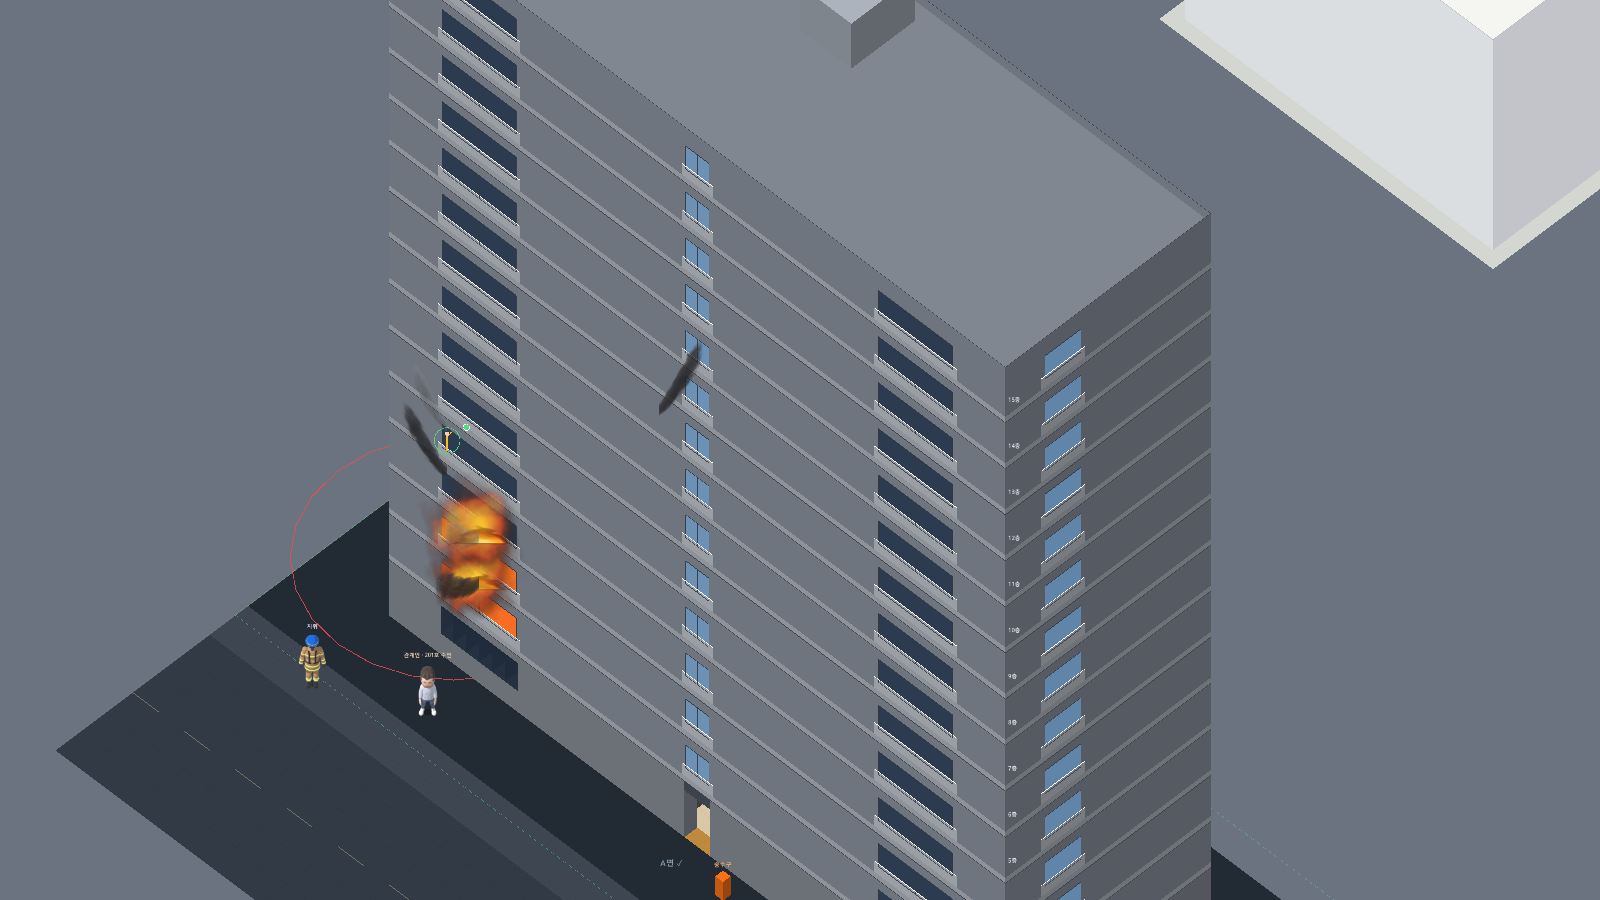
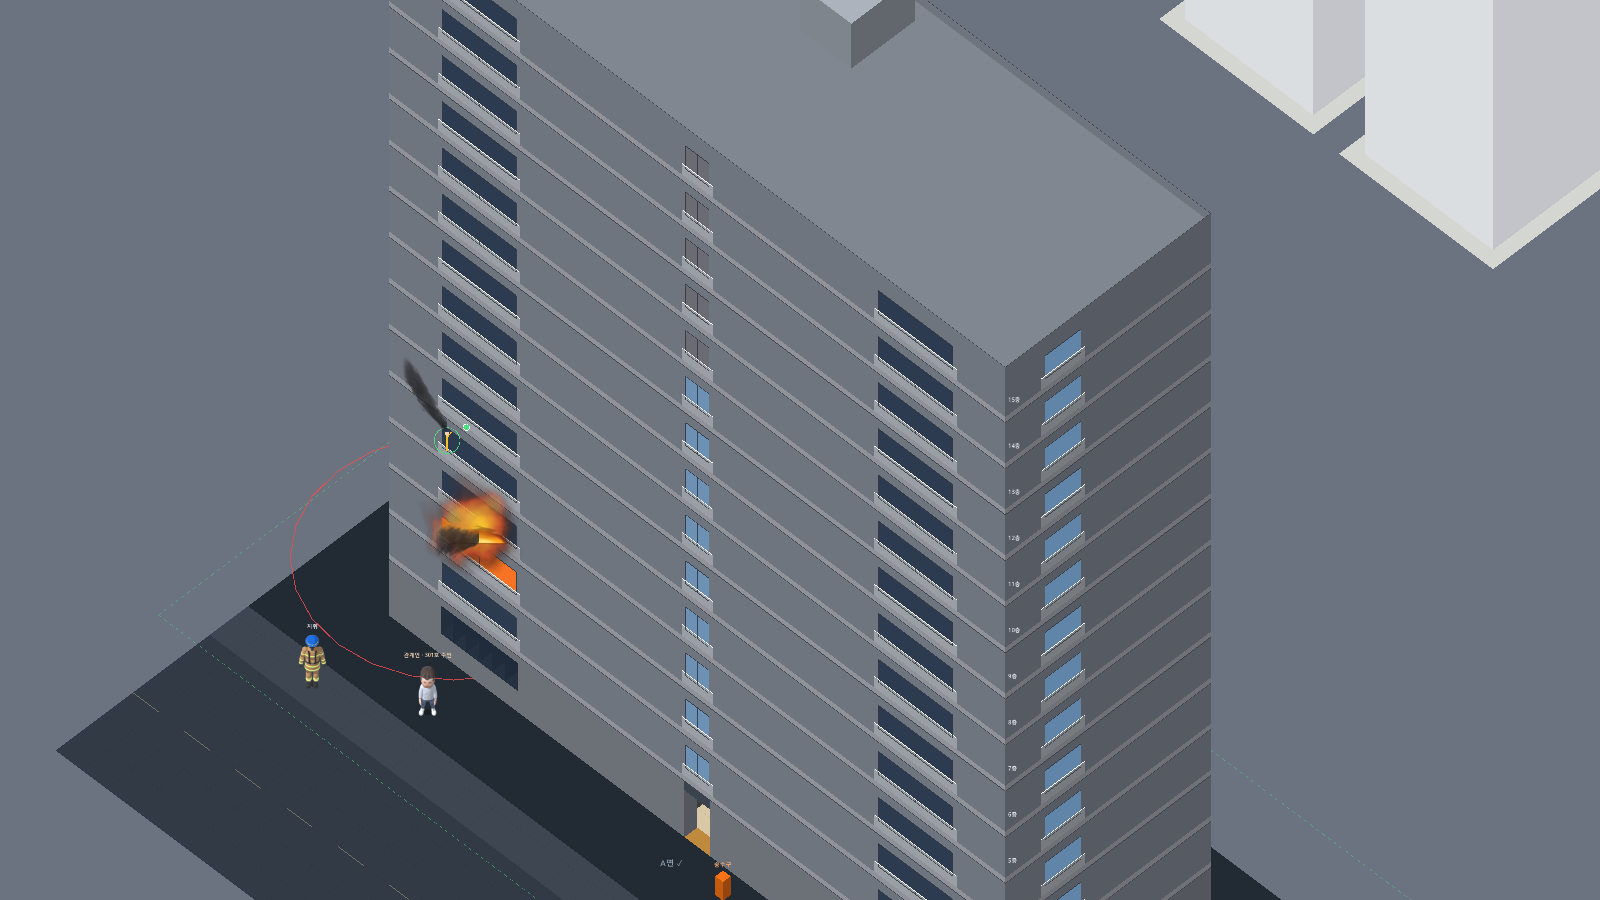
F01: 위층 면은 뒷벽·왼쪽 벽만, 점선 상자와 끝을 맞추고 밝은 색으로

diff --git a/docs/decisions.md b/docs/decisions.md
@@ -122,3 +122,4 @@
 | 2026-11-12 | F04 | 실내 벽 진하기 | 바닥 쪽 0.7 → 0.95, 천장 쪽 0.15 → 0.6 | 사용자 지적 — 벽이 너무 투명하고 바닥과 색이 비슷해 입체 벽이 아니라 바닥 무늬처럼 보였음. 대상 앞 벽 옅게(3단계)가 있어 진하게 해도 대원·요구조자·불이 가려지지 않음 |
 | 2026-11-12 | F01 | 다른 층 3차원 점선 상자·점선 사람 | 다른 층 바깥벽을 바닥선·천장선·모서리 세로선(x·y·z) 흰 점선 상자로(진하기 0.45), 실내 벽은 바닥 높이 점선. 다른 층 사람 테두리는 점선(같은 층에서 연기에 가려진 사람은 실선) | 사용자 결정 — 평면도 선만으로는 위·아래에 층 덩어리가 있다는 게 안 보임. 지금 층의 뜯어낸 앞벽 자리 점선과 같은 표현 |
 | 2026-11-12 | F01 | 위층 뒷벽·왼쪽 벽 반투명 면 | 위층(바로 위) 바깥벽 중 뒷벽(북)·왼쪽 벽(서)만 벽 색 반투명 면 40%(북은 앞면 명암, 서는 옆면 명암), 앞벽(남·동)은 흰 점선 그대로 | 사용자 제안·결정 — 점선만으로는 입체감이 약함. 이 시점에서 위층 북·서 벽은 지금 층 윤곽 바깥(배경 쪽)에 놓여 지금 층을 가리지 않음 (심즈의 뒷벽만 세우기) |
+| 2026-11-12 | F01 | 위층 뒷벽·왼쪽 벽 면 (고침) | 면은 뒷벽(북)·왼쪽 벽(서)만 — 바깥 방향을 벽 줄 가운데 칸으로 판정(모서리 칸 때문에 오른쪽 벽 끝에 면이 생기던 것 없앰). 점선 상자와 면 모두 모서리까지 그려 끝을 맞춤. 면 색은 점선과 같은 밝은 색(뒷벽 밝게, 왼쪽 벽 한 단계 어둡게) | 사용자 지적 — 점선과 면이 어긋나고 오른쪽에 면이 보임. 벽 회색은 배경 회색과 같아 뒷벽 면이 안 보였음 |

diff --git a/docs/progress.md b/docs/progress.md
@@ -48,3 +48,4 @@
 | 2026-11-12 | F04 실내 벽 진하게 | data/ui/view_params(inner_wall_alpha_bottom 0.95·top 0.6), scripts/ui/building/view_params | 다음: 튜토리얼 단계 정비 |
 | 2026-11-12 | F01 다른 층 점선 상자·점선 사람 | scripts/ui/building/floor_layer(_draw_adjacent 3차원 점선, 다른 층 재질 dash_px)·view_params, shaders/ghost_outline(dash_px), data/ui/view_params(ghost_line_alpha 0.45), tests/test_cutaway | 다음: 튜토리얼 단계 정비 |
 | 2026-11-12 | F01 위층 뒷벽 반투명 | scripts/ui/building/floor_layer(_draw_adjacent 위층 북·서 벽 면)·view_params, data/ui/view_params(ghost_back_wall_alpha 0.4), tests/test_cutaway | 다음: 튜토리얼 단계 정비 |
+| 2026-11-12 | F01 위층 뒷벽 면 고침 | scripts/ui/building/floor_layer(_draw_adjacent: 모서리까지·가운데 칸 판정·밝은 면 색) | 다음: 튜토리얼 단계 정비 |
